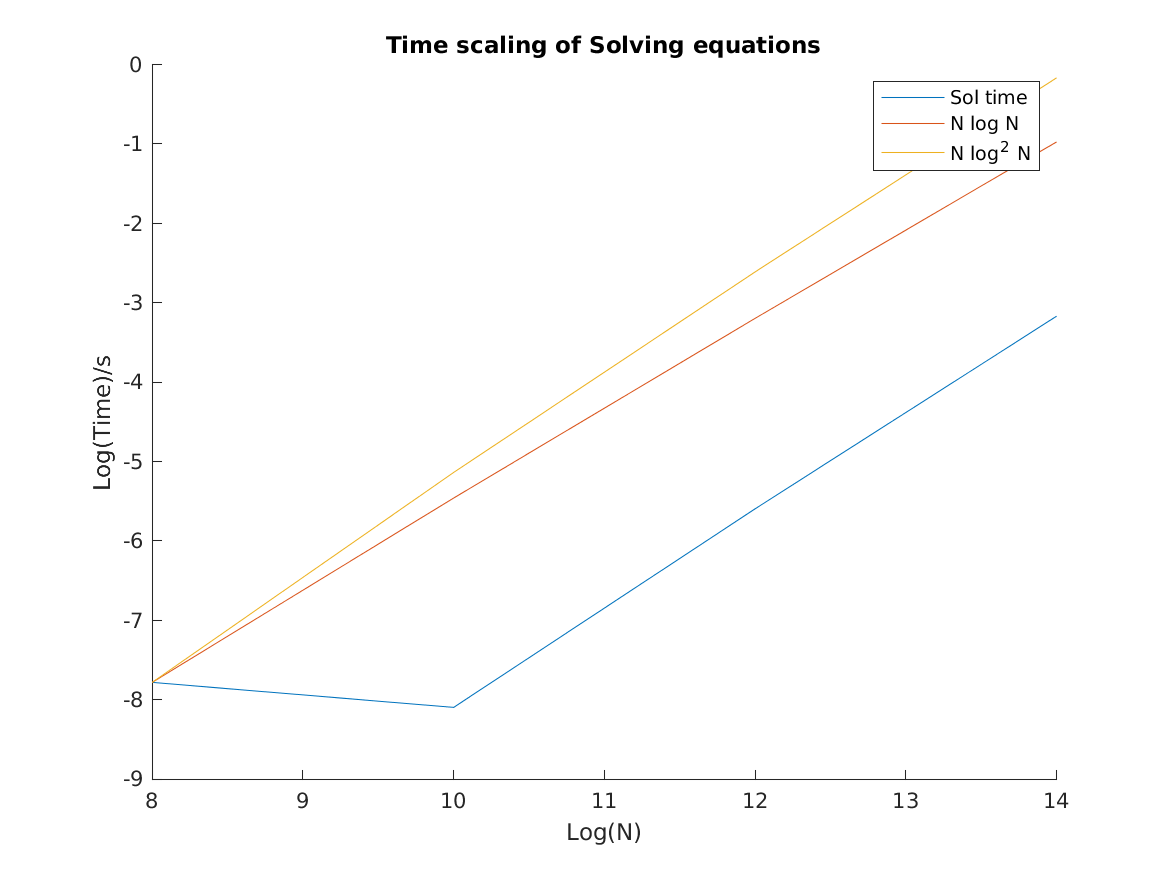
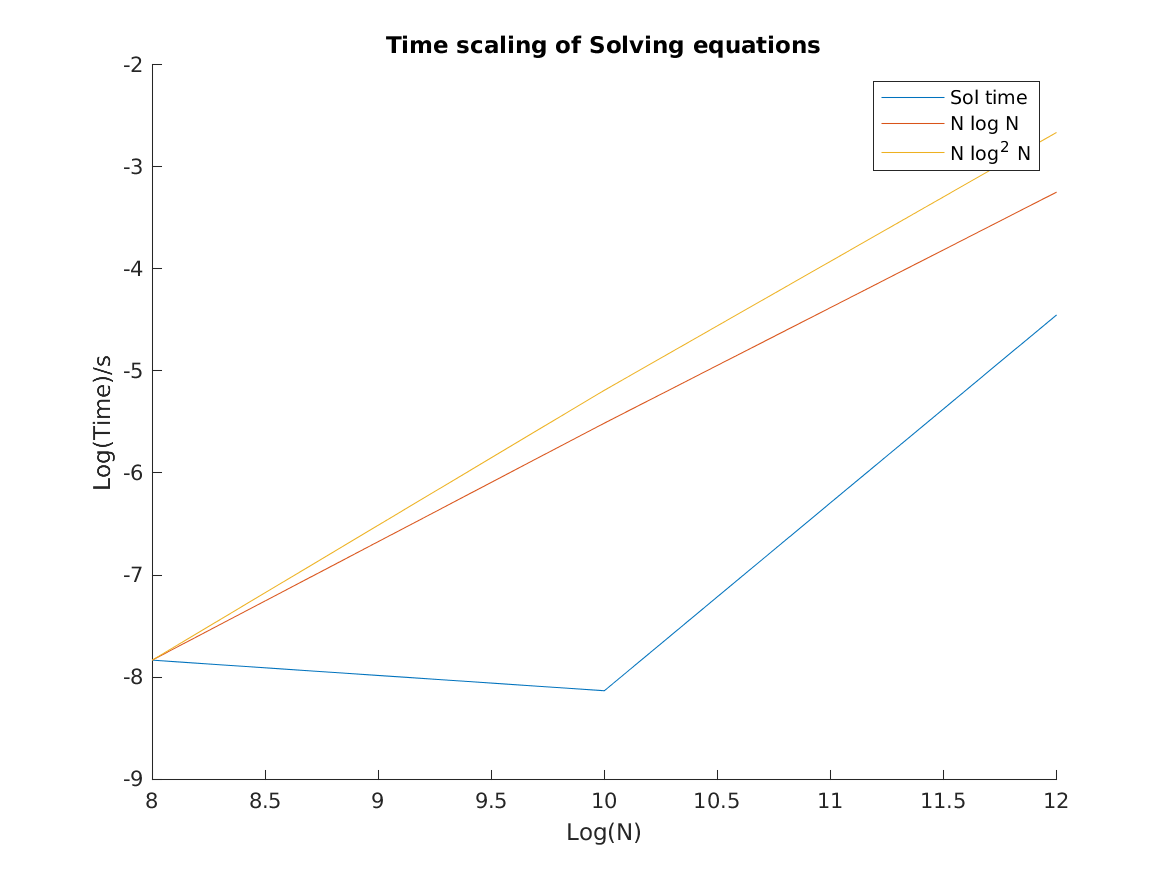
more 2D results

diff --git a/FIOs_2D_inverse.m b/FIOs_2D_inverse.m
@@ -3,16 +3,16 @@ clear all;
 
 startup;
 
-tol = 1e-10
+tol = 1e-15
 func_name = 'fun1'
 occ = 32;
-rank_or_tol = 1e-6
+rank_or_tol = 1e-13
 repeat_num = 5;
 n0 = 8;
 tt = 5;
 rand_or_cheb = 'rand';
 
-dims = [4:7]
+dims = [4:6]
 cases = length(dims);
 apptime = zeros(cases, 1);
 soltime = zeros(cases, 1);
@@ -26,7 +26,7 @@ for i = 1:cases
     ii = dims(i);
     N = 2^(2*ii);
     n = 2^ii;
-    NG = 4*ii;
+    NG = 5*ii;
     rk = 15*ii;
 
     k = -n/2:n/2-1;
